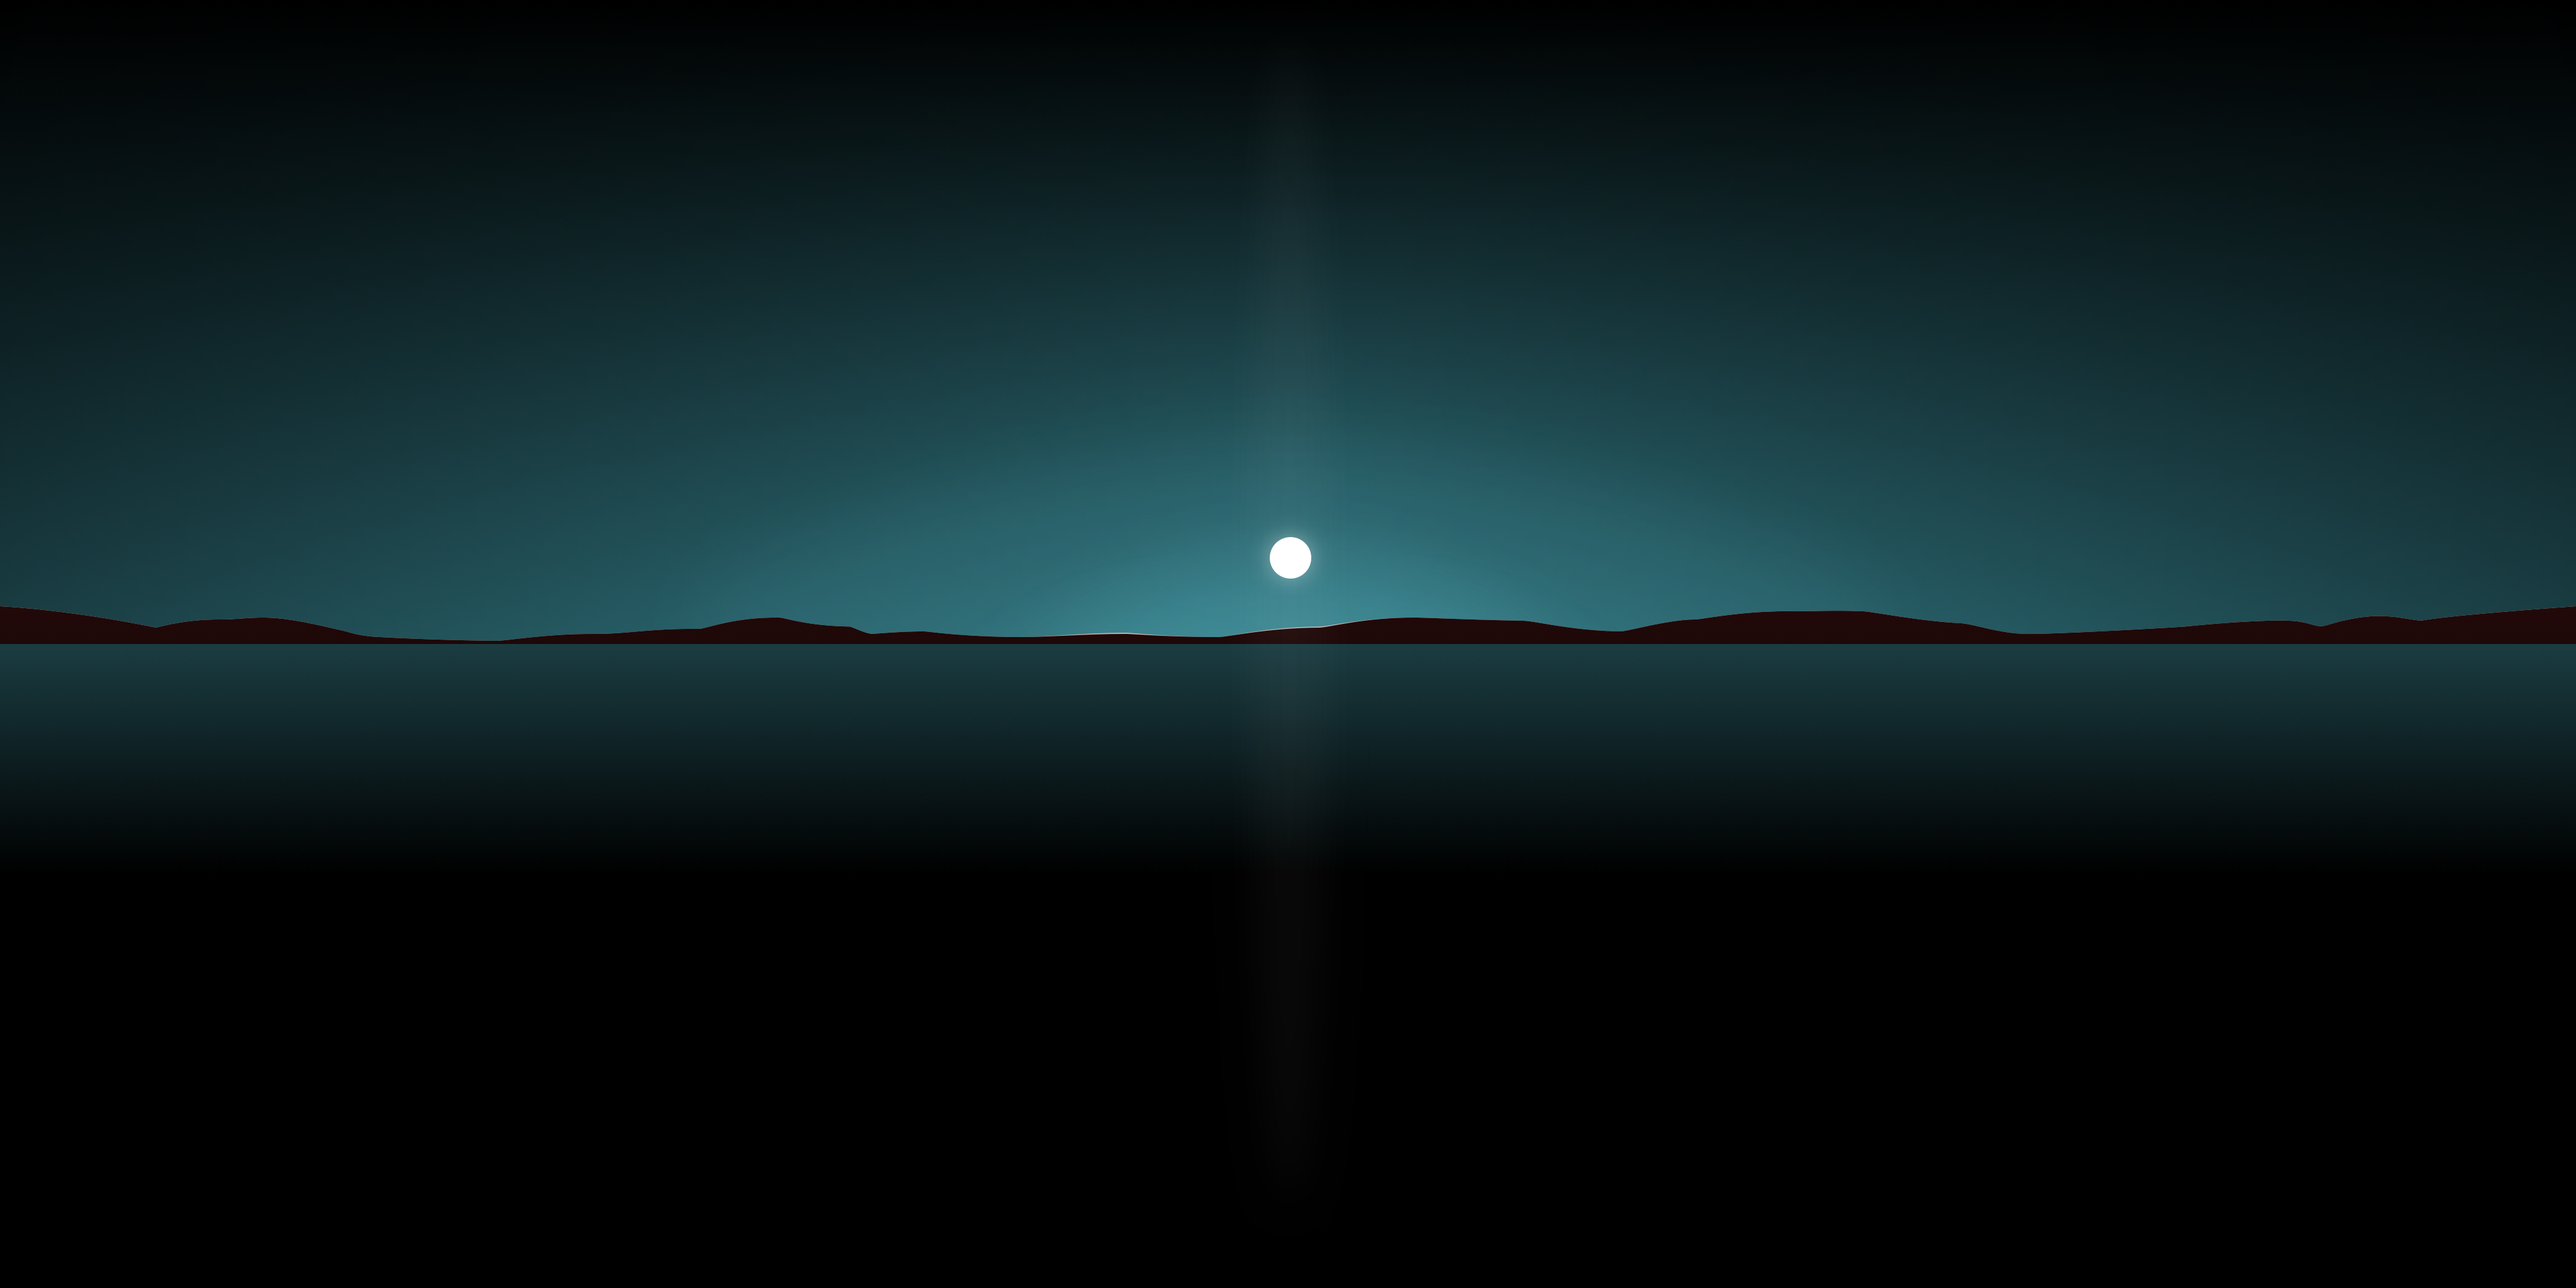
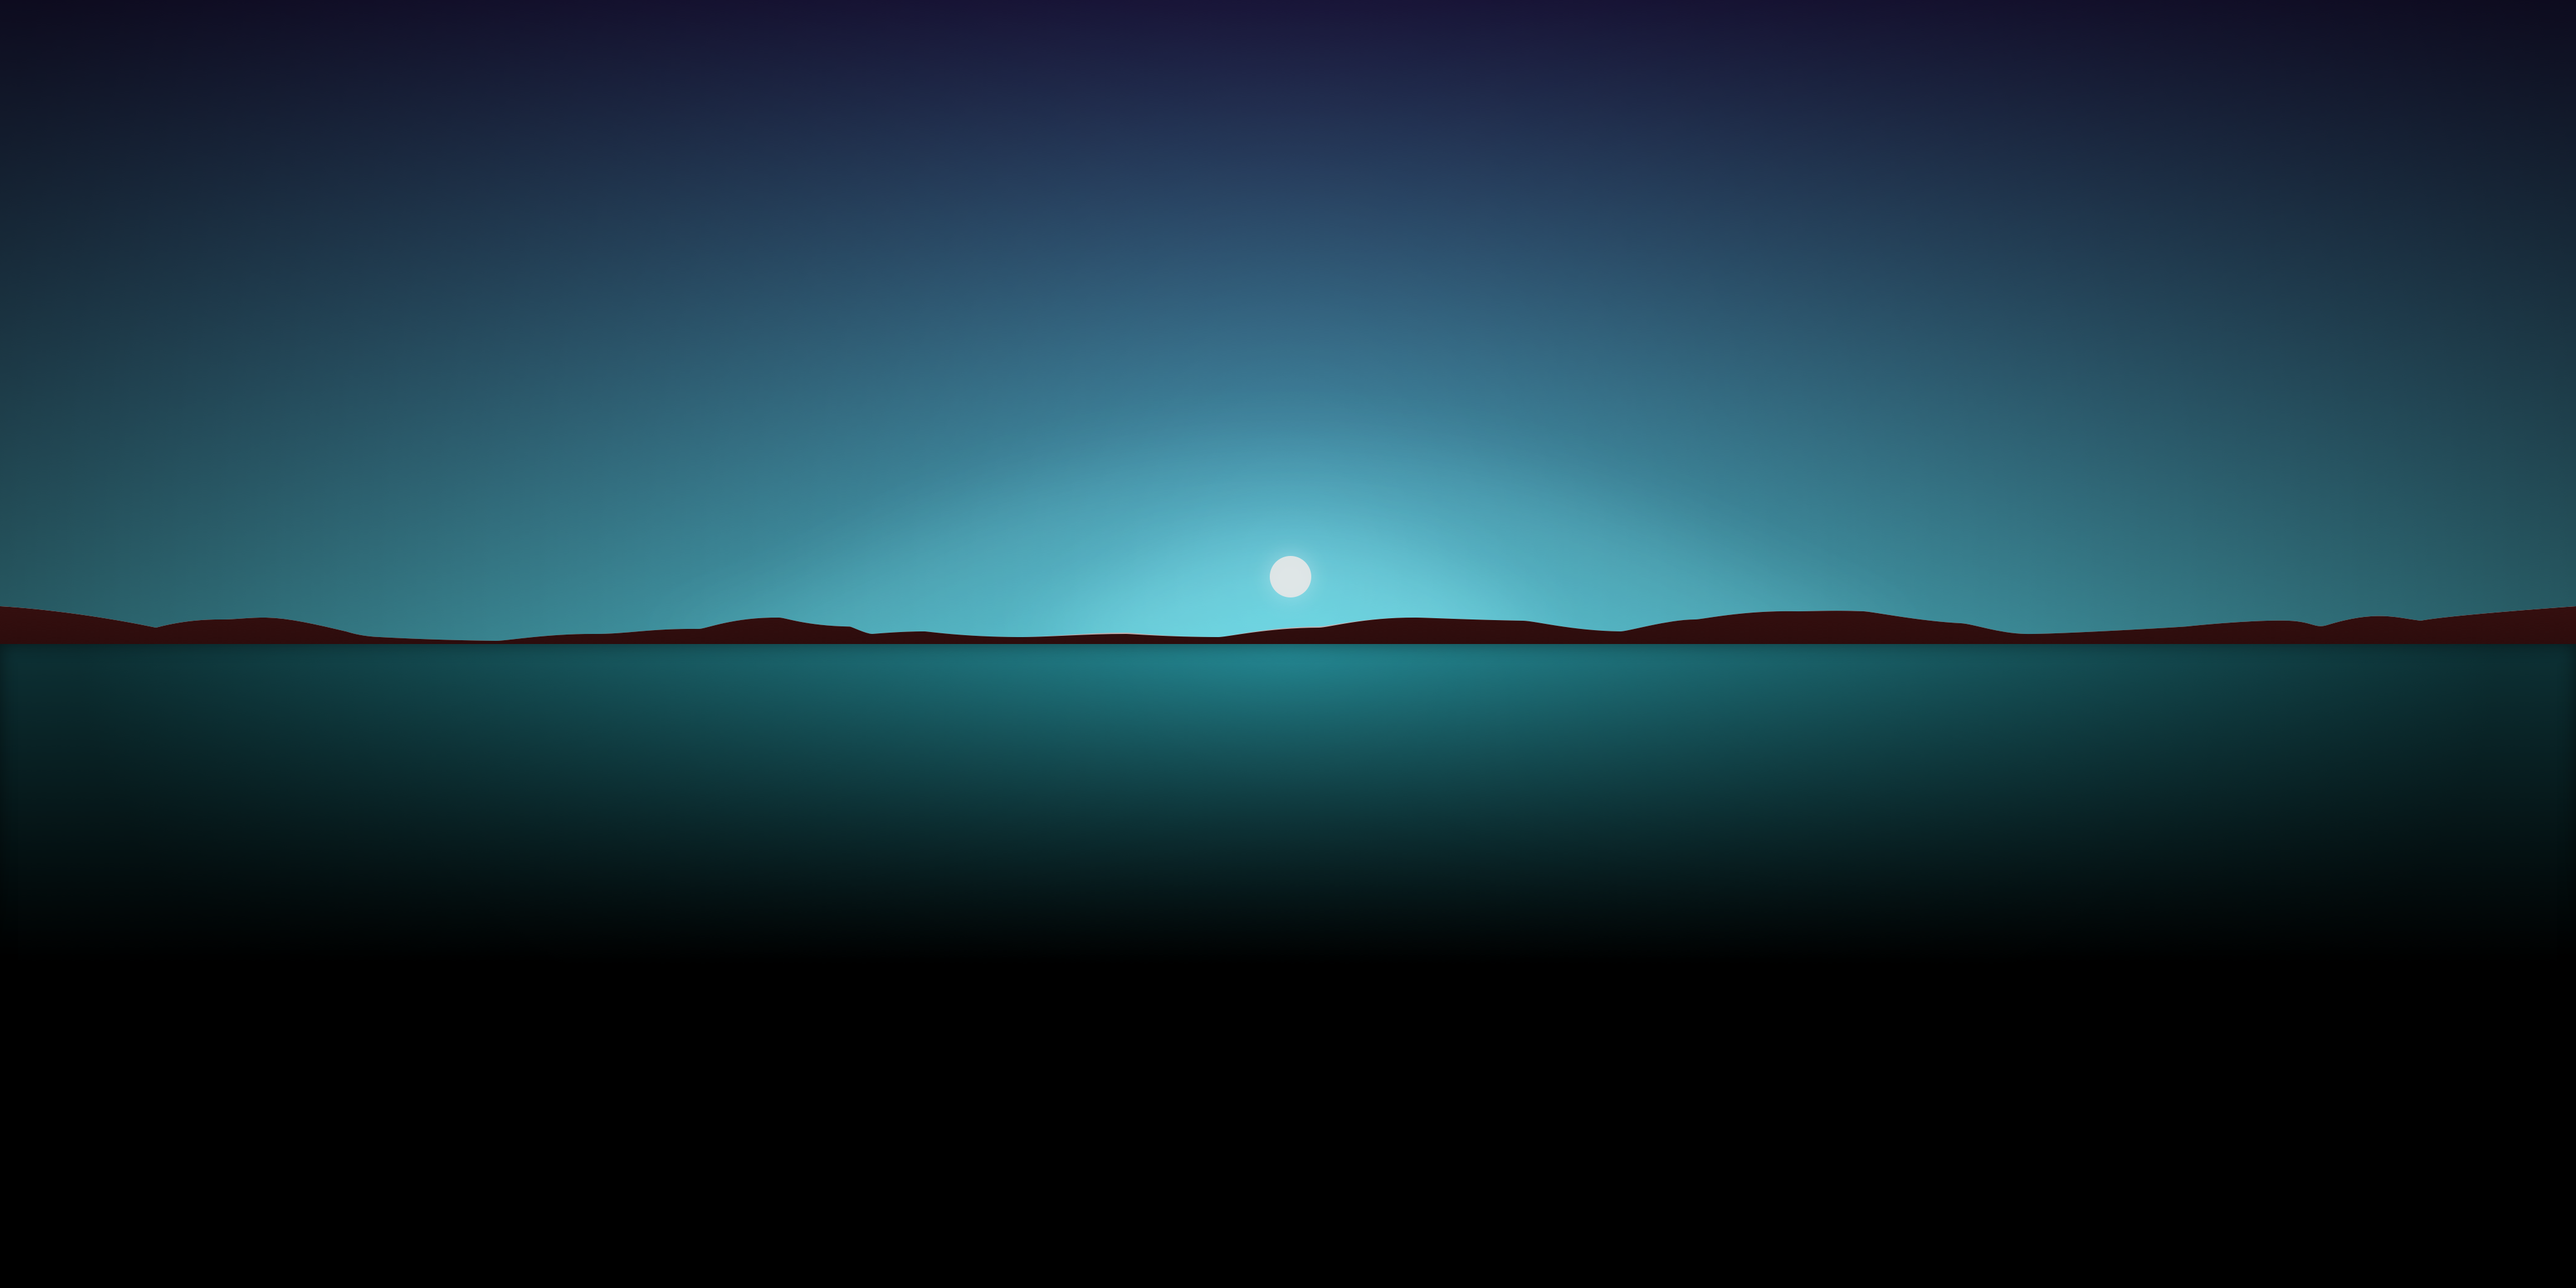
Sky Light

diff --git a/main.js b/main.js
@@ -110,8 +110,8 @@ function runner() {
   });
 
   var material3 = new THREE.MeshPhysicalMaterial( {
-    color: 0x000000,
-    metalness: 0.4,
+    color: 0x18A1f2,
+    metalness: 0.0,
     roughness: 0.9,
     clearCoat: 0.6,
     clearCoatRoughness: 0.2,
@@ -142,7 +142,7 @@ function runner() {
     envMap: textureEquirec
   });
 
-  object3.scale.set(15.5,15.5,15.5); 
+  object3.scale.set(15.5 * 2,15.5 * 2,15.5 * 2); 
   object3.rotation.set(Math.PI / 2,0,0);
 
   const N = 64;
@@ -178,7 +178,7 @@ function runner() {
     .nodeThreeObject(node => {
       if (node.id % 2 == 0) {
         const obj = new THREE.Mesh(
-          new THREE.CircleGeometry( 16, 32),
+          new THREE.CircleGeometry( 16 * 2, 32),
           new THREE.MeshLambertMaterial( { color: 0xffffff, map: imgTexture, side: THREE.DoubleSide} )
         );
         obj.rotation.set(0, node.rotation, 0);
@@ -201,7 +201,7 @@ function runner() {
         return obj;
       } else {
         const obj2 = new THREE.Mesh(
-          new THREE.CircleGeometry( 16, 32),
+          new THREE.CircleGeometry( 16 * 2, 32),
           new THREE.MeshLambertMaterial( { color: 0xffffff, map: imgTexture2, side: THREE.DoubleSide} )
         );
         obj2.rotation.set(0, node.rotation, 0);
@@ -226,10 +226,12 @@ function runner() {
       }
     })
   .onNodeHover(node => {
+    /*
      document.getElementById('graph-3d').style.cursor = node ? 'pointer' : null     // no state change
           if ((!node && !highlightNodes.length) || (highlightNodes.length === 1 && highlightNodes[0] === node)) return;
           highlightNodes = node ? [node] : [];
           updateGeometries();
+          */
         })
     .onNodeClick(node => {
       // Aim at node from outside it
@@ -249,7 +251,7 @@ function runner() {
 
   const linkForce = graph
       .d3Force('link')
-      .distance(link => 700);
+      .distance(link => 900);
 
 
   var renderer = graph.renderer();
